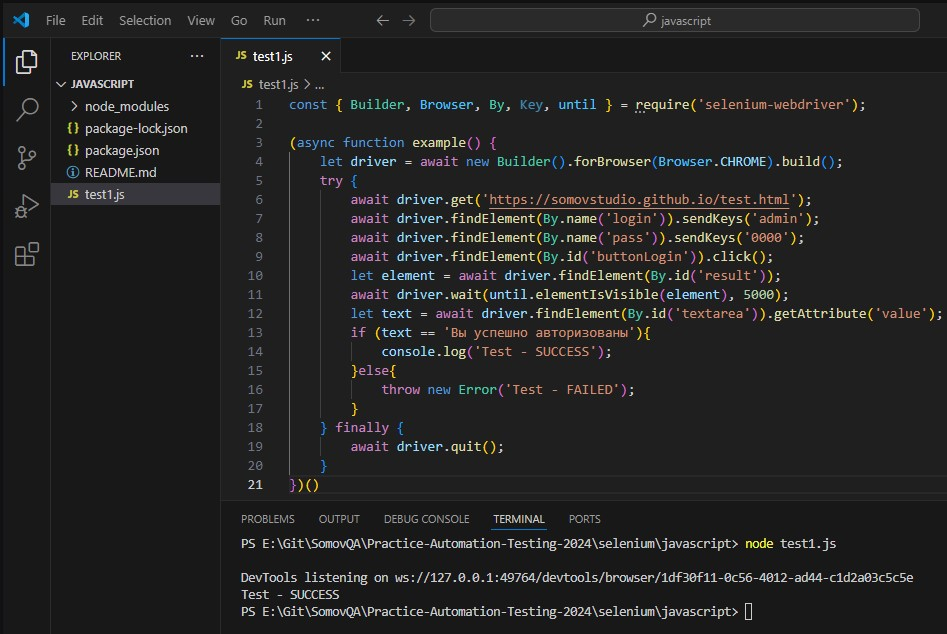
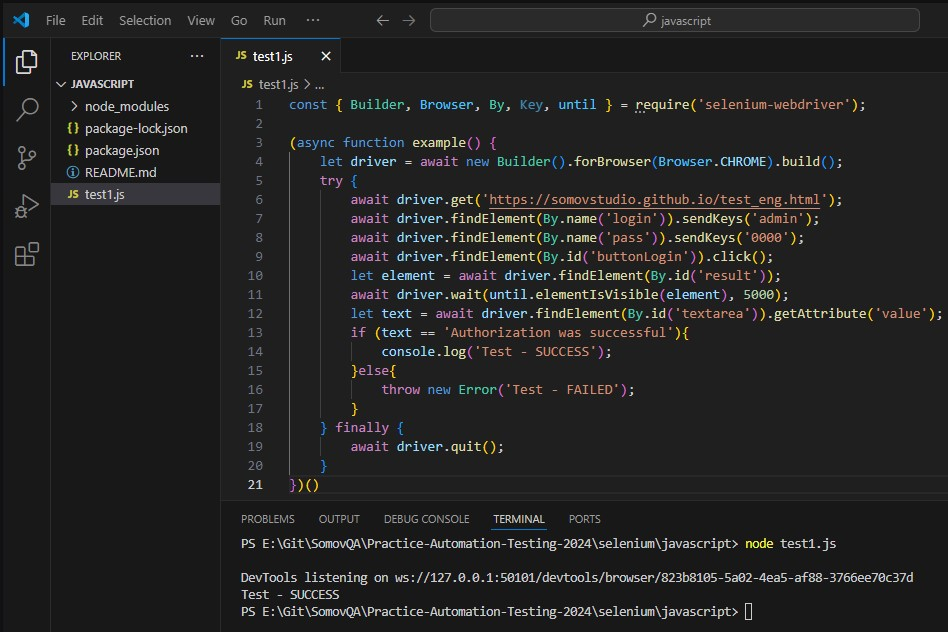
Изменение автотеста test1

diff --git a/selenium/javascript/test1.js b/selenium/javascript/test1.js
@@ -3,14 +3,14 @@ const { Builder, Browser, By, Key, until } = require('selenium-webdriver');
 (async function example() {
     let driver = await new Builder().forBrowser(Browser.CHROME).build();
     try {
-        await driver.get('https://somovstudio.github.io/test.html');
+        await driver.get('https://somovstudio.github.io/test_eng.html');
         await driver.findElement(By.name('login')).sendKeys('admin');
         await driver.findElement(By.name('pass')).sendKeys('0000');
         await driver.findElement(By.id('buttonLogin')).click();
         let element = await driver.findElement(By.id('result'));
         await driver.wait(until.elementIsVisible(element), 5000);
         let text = await driver.findElement(By.id('textarea')).getAttribute('value');
-        if (text == 'Вы успешно авторизованы'){
+        if (text == 'Authorization was successful'){
             console.log('Test - SUCCESS');
         }else{
             throw new Error('Test - FAILED');

diff --git a/selenium/javascript/README.md b/selenium/javascript/README.md
@@ -33,14 +33,14 @@ const { Builder, Browser, By, Key, until } = require('selenium-webdriver');
 (async function example() {
     let driver = await new Builder().forBrowser(Browser.CHROME).build();
     try {
-        await driver.get('https://somovstudio.github.io/test.html');
+        await driver.get('https://somovstudio.github.io/test_eng.html');
         await driver.findElement(By.name('login')).sendKeys('admin');
         await driver.findElement(By.name('pass')).sendKeys('0000');
         await driver.findElement(By.id('buttonLogin')).click();
         let element = await driver.findElement(By.id('result'));
         await driver.wait(until.elementIsVisible(element), 5000);
         let text = await driver.findElement(By.id('textarea')).getAttribute('value');
-        if (text == 'Вы успешно авторизованы'){
+        if (text == 'Authorization was successful'){
             console.log('Test - SUCCESS');
         }else{
             throw new Error('Test - FAILED');
